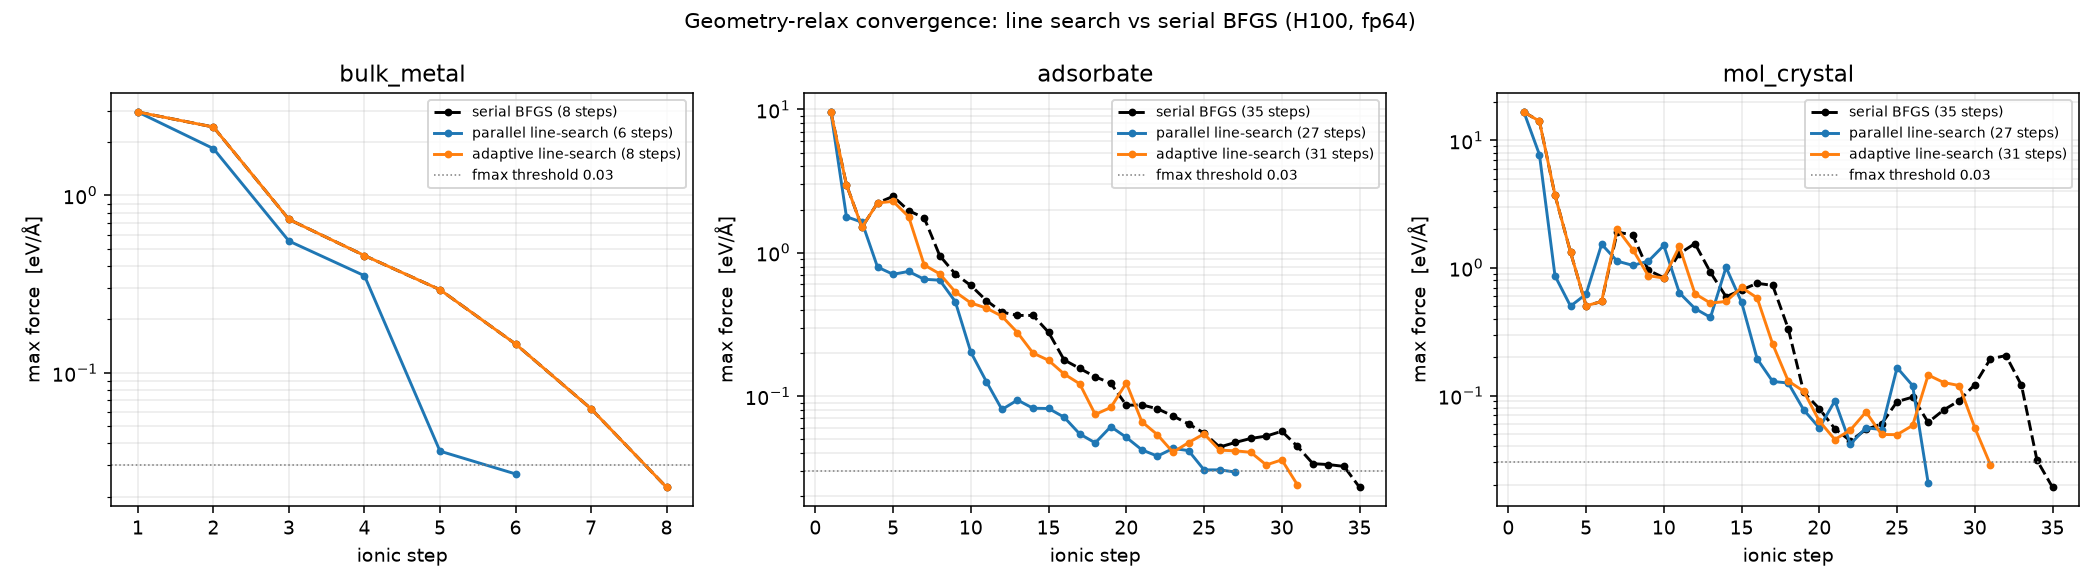
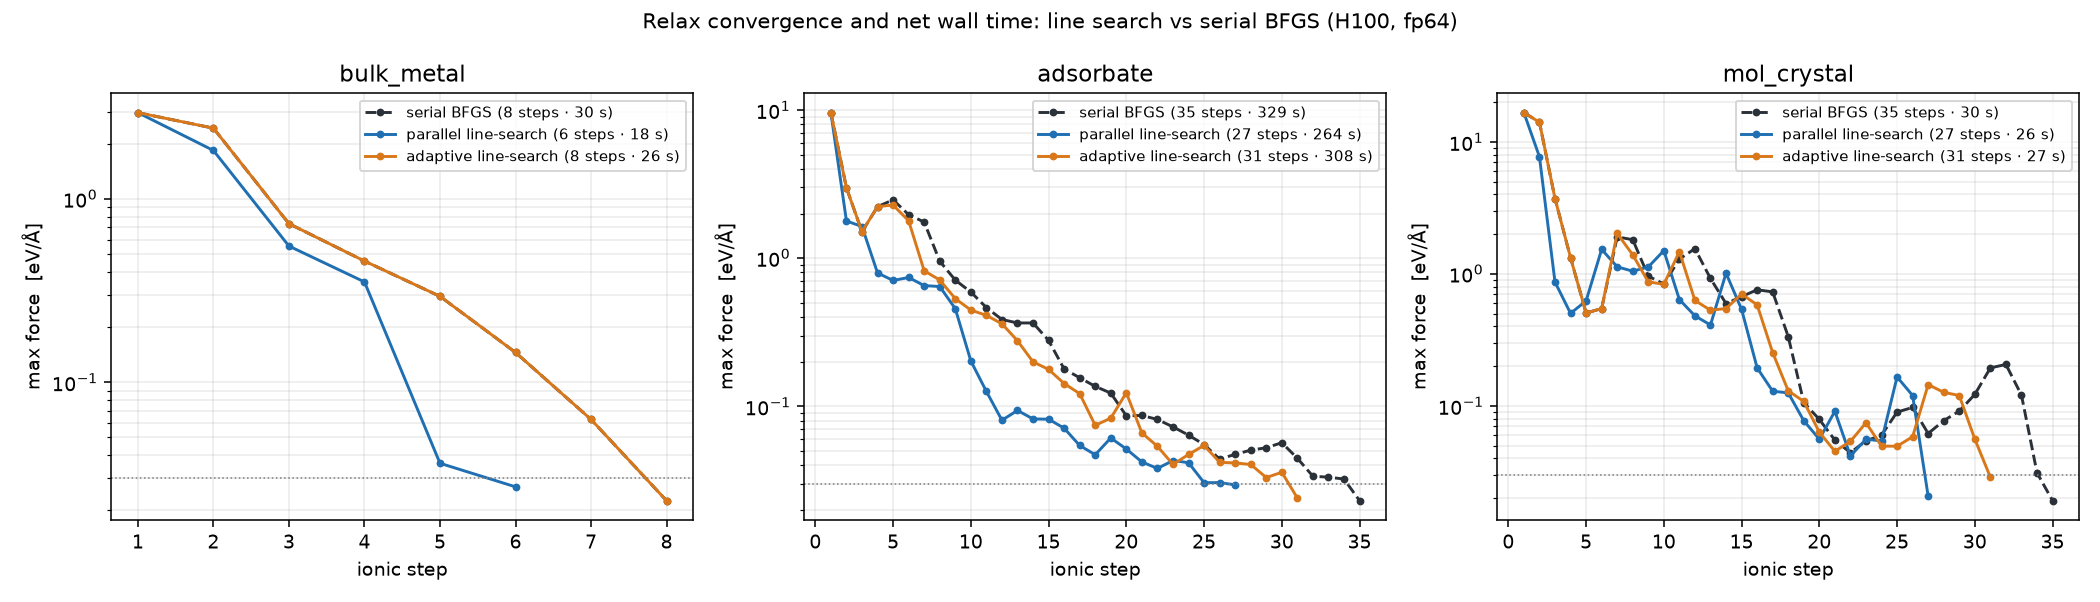
docs(relax): add net wall time to convergence plot + lindh/warmup figure
line_search_convergence.png legends now show '(N steps · W s)' net wall (total SCF
compute incl. candidates). New initial_hessian_convergence.png shows identity vs
lindh vs lindh+warmup over the first 12 steps (the overshoot region), measured on
the H100.

diff --git a/docs/manual/geometry-optimization.md b/docs/manual/geometry-optimization.md
@@ -336,6 +336,8 @@ search, which gives both the fewest steps and the lowest overshoot. And the mode
 covers atomic coordinates only, so a cell relax keeps the identity start. A fuller
 Lindh with angle terms is the natural next step for the bend-dominated residual.
 
+![Max force per ionic step, identity vs lindh vs lindh+warmup, first 12 steps](img/initial_hessian_convergence.png)
+
 ## Gotchas
 
 - Forces sum to zero to about 1e-6 eV/Å by construction, since $E$ is invariant
